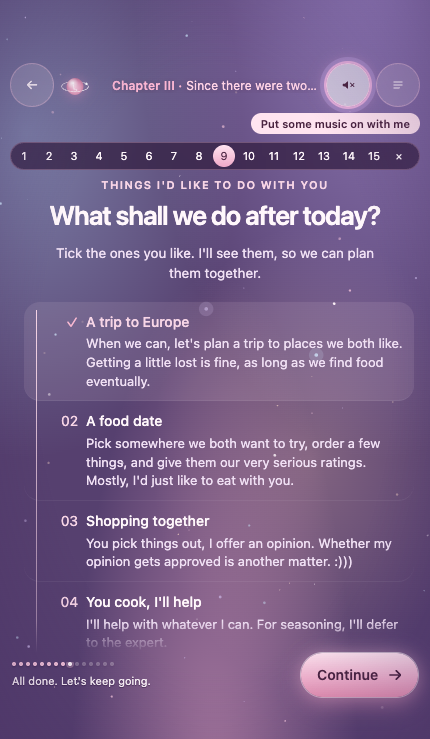
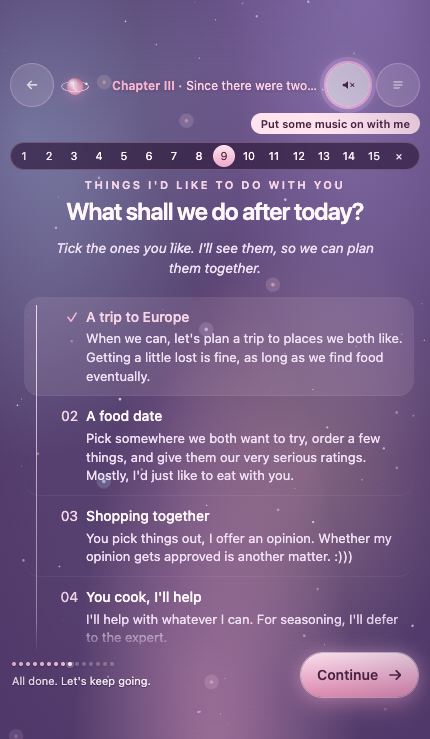
Review fixes: shared title scale, fold Dreams/Wish CSS, sheet-ui-check script

diff --git a/site/src/styles.css b/site/src/styles.css
@@ -1487,10 +1487,12 @@ svg:focus, g:focus, svg:focus-visible, g:focus-visible { outline: none; }
 
 .win { margin-top: 16px; display: grid; gap: 10px; }
 
+.dreams-scene > .lede { margin-top: 12px; }
+
 .dreams {
   position: relative;
   list-style: none;
-  margin: 14px 0 0;
+  margin: 18px 0 0;
   padding: 0 0 0 8px;
   display: grid;
 }
@@ -1511,8 +1513,9 @@ svg:focus, g:focus, svg:focus-visible, g:focus-visible { outline: none; }
   grid-template-columns: 46px 1fr;
   gap: 8px;
   align-items: start;
-  padding: 10px 0 10px 8px;
+  padding: 10px 10px 10px 8px;
   border-bottom: 1px solid rgba(255, 255, 255, 0.06);
+  border-radius: var(--radius-md);
 }
 
 .dream input {
@@ -1533,10 +1536,12 @@ svg:focus, g:focus, svg:focus-visible, g:focus-visible { outline: none; }
   color: var(--gold);
   text-align: right;
   padding-top: 2px;
+  min-width: 32px;
 }
 
 .dream strong { display: block; font-weight: 500; font-size: var(--text-body); line-height: var(--leading-body); }
 .dream small { display: block; color: var(--muted); margin-top: 2px; font-size: var(--text-secondary); line-height: var(--leading-body); }
+.dream.is-done { background: rgba(255, 228, 240, 0.1); }
 .dream.is-done .dream-index { color: var(--blush); }
 .dream.is-done strong { color: var(--gold); }
 
@@ -4757,45 +4762,51 @@ html::-webkit-scrollbar-track, .stage::-webkit-scrollbar-track, .scene::-webkit-
   position: relative;
   z-index: 5;
   flex: none;
-  margin: 0 auto 10px;
+  min-height: 1.5em;
+  margin: 6px auto 0;
   padding: 0 22px;
   text-align: center;
+  font-size: var(--text-secondary);
+  line-height: 1.5;
   pointer-events: none;
 }
-.wish-sky > .wish-read:empty { display: none; }
 
 /* Wish: who reads it. Note, field and switch travel together, also above the keyboard. */
 .wish-dock {
   position: relative;
   z-index: 5;
   flex: none;
+  width: min(100%, 380px);
+  margin-inline: auto;
 }
 .wish-note {
-  width: min(100%, 380px);
-  margin: 0 auto 8px;
-  padding: 0 12px;
+  width: 100%;
+  margin: 0 auto 10px;
+  padding: 0 8px;
   text-align: center;
+  text-wrap: pretty;
   color: var(--muted);
   font-size: var(--text-secondary);
   line-height: var(--leading-body);
 }
 .wish-dock .wish-form,
-:root.keyboard-open .wish-dock .wish-form { margin-top: 0; margin-bottom: 4px; }
+:root.keyboard-open .wish-dock .wish-form { width: 100%; margin-top: 0; margin-bottom: 4px; }
 .wish-keep {
   display: flex;
   align-items: center;
-  justify-content: center;
+  justify-content: space-between;
   gap: 12px;
-  width: min(100%, 340px);
+  width: 100%;
   min-height: 44px;
-  margin: 0 auto 8px;
-  padding: 0 6px;
+  margin: 0 auto;
+  padding: 0 12px;
   border: none;
   background: none;
   color: var(--muted);
   font: inherit;
   font-size: var(--text-body);
   line-height: var(--leading-body);
+  text-align: left;
   cursor: pointer;
   -webkit-tap-highlight-color: transparent;
 }
@@ -4865,18 +4876,10 @@ html::-webkit-scrollbar-track, .stage::-webkit-scrollbar-track, .scene::-webkit-
   .wish-keep-knob,
   .wish-keep-knob svg { transition: none; }
 }
+.wish-copy > .lede { max-width: 34ch; margin-inline: auto; }
+:root.keyboard-open .wish-copy .kicker,
 :root.keyboard-open .wish-copy .lede { display: none; }
-:root.keyboard-open .wish-note { margin-top: 12px; }
-
-.dreams-note {
-  max-width: min(42ch, 100%);
-  margin: 8px auto 0;
-  text-align: center;
-  text-wrap: pretty;
-  color: var(--muted);
-  font-size: var(--text-secondary);
-  line-height: var(--leading-body);
-}
+:root.keyboard-open .wish-note { margin-top: 8px; }
 
 :root.keyboard-open .wish-form { position: relative; bottom: auto; margin-top: 12px; }
 :root.keyboard-open .wish-stars { display: none; }
@@ -5001,32 +5004,3 @@ html::-webkit-scrollbar-track, .stage::-webkit-scrollbar-track, .scene::-webkit-
   .scratch-list { grid-template-columns: repeat(3, minmax(0, 1fr)); gap: 14px; }
   .scratch, .scratch-reveal { min-height: 140px; }
 }
-
-/* Dreams/Wish refinement: keep the existing galaxy, pink palette and star/moon switch. */
-.dreams-scene > .kicker, .wish-copy > .kicker {
-  font-size: var(--text-eyebrow);
-  letter-spacing: 0.12em;
-  margin-bottom: 8px;
-}
-.dreams-scene > .lede {
-  max-width: 38ch;
-  margin: 12px auto 0;
-  font-style: normal;
-  text-wrap: pretty;
-}
-.dreams-scene .dreams { margin-top: 18px; }
-.dreams-scene .dream { border-radius: var(--radius-md); padding-right: 10px; }
-.dreams-scene .dream.is-done { background: rgba(255, 228, 240, 0.1); }
-.dreams-scene .dream-index { min-width: 32px; }
-.wish-copy > .lede { max-width: 34ch; margin-inline: auto; }
-.wish-dock { width: min(100%, 380px); margin-inline: auto; }
-.wish-dock .wish-form { width: 100%; }
-.wish-dock .wish-note { width: 100%; padding: 0 8px; margin-bottom: 10px; text-wrap: pretty; }
-.wish-dock .wish-keep { width: 100%; justify-content: space-between; padding-inline: 12px; margin-bottom: 0; gap: 12px; text-align: left; }
-.wish-scene .wish-read:empty { display: block; }
-.wish-scene .wish-read { min-height: 1.5em; margin: 6px auto 0; font-size: var(--text-secondary); line-height: 1.5; }
-@media (max-width: 480px) {
-  .dreams-scene > h1, .dreams-scene > h2, .wish-copy > h1, .wish-copy > h2 { font-size: clamp(24px, 6.2vw, 28px); text-wrap: balance; }
-}
-:root.keyboard-open .wish-copy > .kicker { display: none; }
-:root.keyboard-open .wish-dock .wish-note { margin-top: 8px; }

diff --git a/PROJECT_CONTEXT.md b/PROJECT_CONTEXT.md
@@ -123,8 +123,8 @@ Rules (docs/story-v2/implementation.md): memory/scratch/letters have a "later" a
 - **Open: update `README.md`.** Its visit list is an older 16-step path; it should list the 15 Story V2 scenes (§6). Its "English is the default" line is already correct.
 - Still blank inside the 15 scenes: photo dates (Gallery, scene 4), captions beyond the first photo of each era (Gallery), and the date-invitation time and place (Envelope, scene 13). The first-meeting date stays unknown on purpose.
 - Pending: full 15-scene VI/EN review and `docs/story-v2-qa/` deliverables after PR #26 lands.
-- **Sheet sync (branch `feat/share-choices`, draft PR #30):** Parker confirmed the original integration works on 2026-10-31. The device-label/table-style upgrade is ready in the PR, pending live Apps Script upgrade using `tools/sheet-sync/README.md`. New UI passed VI/EN iPhone viewport and simulated keyboard checks; real iPhone keyboard verification is still needed.
-- Scene 12 now needs at least one wish before Next (Parker, 2026-10-30); the old "keep without writing" button is gone. Old saves with `wishPrivate: true` still count as done.
+- **Sheet sync (branch `feat/share-choices`, draft PR #30):** Parker confirmed the original integration works on 2026-10-31. The device-label/table-style upgrade is ready in the PR, pending live Apps Script upgrade using `tools/sheet-sync/README.md`. New UI passed VI/EN iPhone viewport and simulated keyboard checks (`npm run sheet-ui-check`); real iPhone keyboard verification is still needed. Parker approved the shorter `wish.sent` copy on 2026-10-31.
+- Scene 11 (wish) now needs at least one wish before Next (Parker, 2026-10-30); the old "keep without writing" button is gone. Old saves with `wishPrivate: true` still count as done.
 
 ## 12a. Deferred (phát triển sau)
 Parker's decision (2026-10-30): anything not shown in the 15 Story V2 scenes (§6) is out of scope for now. Agents skip these unless Parker asks.
@@ -133,6 +133,7 @@ Parker's decision (2026-10-30): anything not shown in the 15 Story V2 scenes (§
 - Frozen old flows `FLOW_V1`–`FLOW_V3`: kept only for progress migration. Don't edit them.
 
 ## 13. Changelog
+- 2026-10-31 — PR #30 review fixes: scenes 9 and 11 use the shared title size (24px on phones), kicker spacing and italic lede like every other scene; refinement CSS folded into the original Dreams/Wish rules (unused `.dreams-note` removed, other computed styles unchanged). Parker approved `wish.sent` = "Điều ước đã lên bầu trời rồi ✨ / Your wish is up in the sky ✨". New `npm run sheet-ui-check` (finds Chrome, screenshots only with `--shots`). Sheet README explains what happens if columns are renamed and how to recover.
 - 2026-10-31 — PR #30 follow-up: Dreams uses the approved sharing sentence as its single lede, selected rows gain a subtle pink highlight/check; Wish keeps its existing theme and privacy switch, aligns the dock, and shows a short 3-second sky confirmation only after a new wish. All new copy remains VI/EN in content.json. Sheet labels identify only browser-reported device family/browser (no IP, raw UA, hardware model or personal machine name); old entries stay compatible. Apps Script table-style formatting, aliases, legacy backup/migration and test/real separation added.
 - 2026-10-30 — Sheet sync (draft PR, `feat/share-choices`): scene 9 ticks auto-save to Parker's Google Sheet about 1.5s after she changes them (latest list per visitor); each scene 12 wish is sent when it is made, unless the per-wish "Giữ điều ước cho riêng em" switch is on (then it is stored with `private: true` and never queued or sent). Offline sends wait in `lilj.outbox.v1` and retry on open, on reconnect, when the tab hides and every 30s after a failure; `?dev=1` rows are marked test. New copy `dreamsCopy.note`, `wish.note` (VI final, EN approved). Wish layout: note above the input, switch below (Parker chose design A: night-sky track with a pink star when sending, lavender moon when private; a small control, approved as an exception to the pastel-pink surface rule). The switch defaults to off and stays where she left it. The keep-without-writing button is removed, so a wish is required. With the keyboard open the lede hides and the note/input/switch block stays above the keyboard (`[data-keyboard-block]` in `viewport.ts`). Apps Script and Vietnamese setup guide in `tools/sheet-sync/`; unit tests in `scripts/sheet-sync.test.mjs`, end-to-end sheet checks in `story-v2-check`.
 - 2026-10-30 — PR #29 round 3 (Parker review). **Theme rule: the site is pastel pink — never introduce dark purple surfaces** (panels use `--pink-panel` / `--pink-ink` / `--pink-line`). Drawer, letters modal, wish bubbles, crash card, constellation oval and Scene 4 card restyled pink. Scene 4: album stack layering restored, caption inside the card (4-line clamp), play/pause + progress sit with the dots below the card (progress fills the active dot). Titles/ledes centred with balance/pretty wrapping, one line when they fit, wider on desktop. Scene 7 "Khám phá sau" is a quiet button under the cards. Wish keyboard-open spacing fixed (inputs 16px, no zoom). Finale "yes" is a pink card with an orange heart bloom (rings + sparks; 🧡 in `finale.yesTitle`). Final-letter seal and header use the scene-1 logo (`LogoMark`). Header is one row: back + logo · centred "Chương N · title" (new copy `ui.chapterWord`; wraps to two balanced lines on ≤480px) · music + menu; VI/EN moved into the drawer header left of ×. Footer dots/hint gap 8px. `<title>` from `meta.docTitle` (MJ🧡); favicon.svg + 32/180/192/512 PNG icons from the logo. **Scenes 11/12 swapped: wish now comes before cake** (`FLOW_V5`, `FLOW_VERSION` 5; v4 saves migrate by scene id; chapter IV = wish, cake). Next copy reordered (Parker approved): `lettersCopy.next` = "Đến điều ước của em / Time for your wish", `cake.next` = "Mở phong bì nhé / Let's open the envelope"; `ui.chapterWord` approved. Wish: the confirmation line (`wish.sent`/`wish.empty`) is its own block below the input (never over the pill); with the keyboard open the form is in normal flow (no sticky) and wish stars/flight canvas are hidden. Header chapter label is always one line with an ellipsis (full text in `title`); overlap-check exempts only that element when its `text-overflow` is ellipsis. Scene 4: the "← Về ngân hà" pill is replaced by a round constellation icon button left of play/pause (aria-label from `galleryCopy.backToGalaxy`); onboarding uses a pink ripple ring + twinkling ✦ sparkle (no tap hand) and the album guide glows the new button. Scene 4 onboarding: first unseen star pulses with a tap hand and the existing `galleryCopy.orbit` bubble (~3s, re-shown once after ~5s idle); first album open shows faint swipe arrows and a glowing back button; dismissed forever on first interaction (`lilj.guide.galleryOrbit.v1`, `lilj.guide.galleryAlbum.v1`); no animation under reduced motion.

diff --git a/tools/sheet-sync/README.md b/tools/sheet-sync/README.md
@@ -38,7 +38,7 @@ Khi chưa cài link, website vẫn chạy bình thường và không gửi gì.
 
 1. Dán toàn bộ `Code.gs` mới vào Apps Script rồi lưu.
 2. Chạy **setup**. Script sao lưu từng tab cũ có 5 cột trước khi đổi cấu trúc; bản sao có tên chứa `backup`. Dữ liệu cũ được giữ, thông tin thiết bị chưa có để trống. Nếu đã tự đổi tên cột, hãy khôi phục các tiêu đề cũ trước; script từ chối cấu trúc không nhận ra.
-3. Hai tab dữ liệu có 5 cột hiển thị: thời gian, tên gợi nhớ, thiết bị/trình duyệt, nội dung, thử nghiệm. Hai cột mã ở cuối được ẩn. Đừng xóa/đổi tên các cột hoặc tab.
+3. Hai tab dữ liệu có 5 cột hiển thị: thời gian, tên gợi nhớ, thiết bị/trình duyệt, nội dung, thử nghiệm. Hai cột mã ở cuối được ẩn. Đừng xóa/đổi tên/chèn thêm cột hay đổi tên tab: khi đó script từ chối mọi lần gửi mới. Dữ liệu không mất vì nó nằm chờ trên máy cô ấy và tự gửi lại ngay khi anh khôi phục tiêu đề cột như cũ. Muốn ghi chú thêm, hãy thêm cột sau cột G (cột mã cuối cùng) hoặc dùng tab riêng.
 4. Trong tab **Thiết bị**, nhập tên vào cột **Tên gợi nhớ** (màu vàng nhạt) sau khi anh xác định được trình duyệt đó. Tên tự cập nhật ở cả hai tab dữ liệu. Không sửa tên trực tiếp trong hai tab dữ liệu vì đó là ô công thức.
 5. Mở lại Sheet để thấy menu **MJ Universe → Cập nhật định dạng bảng**. Có thể chạy lại mà không nhân đôi dữ liệu. Bộ lọc "Thử nghiệm" cho phép ẩn các hàng có chữ "có".
 6. Triển khai phiên bản Apps Script mới theo bước bên dưới. Bản web mới sẽ gửi nhãn thiết bị cùng lần tương tác tiếp theo; dữ liệu cũ không bị tự gửi lại. Bản web cũ vẫn gửi được tới script mới.
@@ -65,6 +65,6 @@ Xóa biến `VITE_SHEET_URL` trên Vercel rồi Redeploy. Website sẽ ngừng g
   - thân request tối đa 4 KB.
 - Chuỗi bắt đầu bằng `= + - @` được lưu dưới dạng chữ, không chạy như công thức.
 - Website giữ hàng chờ trong `localStorage` (`lilj.outbox.v1`) và tự gửi lại khi mở lại website, khi có mạng trở lại, hoặc khi chuyển sang ứng dụng khác.
-- Kiểm tra tự động: `npm run sheet-sync-test` trong `site/`.
+- Kiểm tra tự động: `npm run sheet-sync-test` trong `site/`. Giao diện màn 9/11 trên iPhone (VI/EN, bàn phím giả lập): `npm run sheet-ui-check`, thêm `-- --shots` để lưu ảnh vào `docs/story-v2-qa/sheet-refinement/`.
 
 - `device` chỉ nhận nhãn platform/browser trong danh sách cho phép. Thông tin được ghi vào hàng chờ cùng lần tương tác và giữ nguyên khi thử gửi lại; điều ước giữ riêng không vào hàng chờ.

diff --git a/docs/story-v2-qa/sheet-refinement/REPORT.md b/docs/story-v2-qa/sheet-refinement/REPORT.md
@@ -18,6 +18,12 @@ Sheet có nhãn nhóm thiết bị/trình duyệt, tên gợi nhớ do Parker đ
 
 Các ảnh PNG trong thư mục dùng nội dung minh họa, không phải điều ước thật.
 
+## Sửa sau review (2026-10-31)
+
+- Tiêu đề màn 9/11 về cỡ chung (24px trên iPhone), kicker cùng khoảng chữ, lede màn 9 in nghiêng như các màn khác. Parker duyệt câu xác nhận mới `wish.sent`.
+- CSS ghi đè cuối file được gộp vào rule gốc. So computed style mọi phần tử của hai màn trước/sau ở 430×932, 430×739, 1280×800 (cả bàn phím mở): chỉ khác đúng ba điểm trên.
+- Chạy lại: lint, build, selfcheck, content/progress-check, sheet-sync-test 14/14, `npm run sheet-ui-check -- --shots` (ảnh trong thư mục này đã cập nhật), story-v2-check, overlap 0 lỗi.
+
 ## Giới hạn
 
 Apps Script được kiểm tra bằng Sheet giả lập. Chưa chạy phiên bản nâng cấp trên Google Sheet thật, chưa xác minh công thức tên/định dạng bằng Google Sheets engine và chưa thử bàn phím iPhone thật. Parker xác nhận phiên bản đồng bộ trước đó đã hoạt động. Cần dán Code.gs mới, chạy setup và triển khai phiên bản mới để kiểm tra phần nâng cấp; hướng dẫn ở tools/sheet-sync/README.md.

diff --git a/tasks/todo.md b/tasks/todo.md
@@ -101,3 +101,11 @@ Quyết định của Parker (2026-10-30): dùng Google Sheet để lưu những
 - [x] Script nâng cấp sao lưu dữ liệu cũ, bảng có bộ lọc, hàng xen kẽ, giờ Việt Nam.
 - [x] Hoàn tất QA và cập nhật PR #30; chi tiết ở docs/story-v2-qa/sheet-refinement/REPORT.md.
 - [ ] Parker nâng cấp Apps Script và kiểm tra trên Google Sheets/iPhone thật.
+
+## Review fixes 2026-10-31 (Parker duyệt)
+- [x] Tiêu đề màn 9/11 về cỡ chung 24px trên iPhone; kicker cùng khoảng chữ các màn khác; lede màn 9 in nghiêng như các màn khác.
+- [x] Parker duyệt câu xác nhận mới `wish.sent` ("Điều ước đã lên bầu trời rồi ✨").
+- [x] Gộp CSS ghi đè cuối file vào rule gốc của Dreams/Wish; xóa `.dreams-note` thừa. So computed style trước/sau ở 430×932, 430×739, 1280×800 (cả bàn phím mở): chỉ khác đúng ba điểm trên.
+- [x] `npm run sheet-ui-check` (tự tìm Chrome, chỉ chụp ảnh khi có `--shots`); script dùng `fileURLToPath`.
+- [x] README Sheet: hậu quả khi đổi cột và cách khôi phục.
+- Giữ nguyên: lede cũ màn 9 trong `content.json` (không xóa key); dòng lựa chọn cũ vẫn ngăn bằng dấu phẩy sau nâng cấp vì nội dung có thể chứa dấu phẩy.
